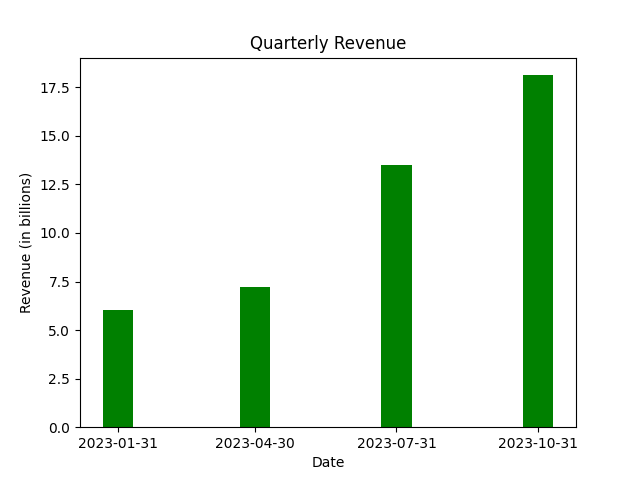
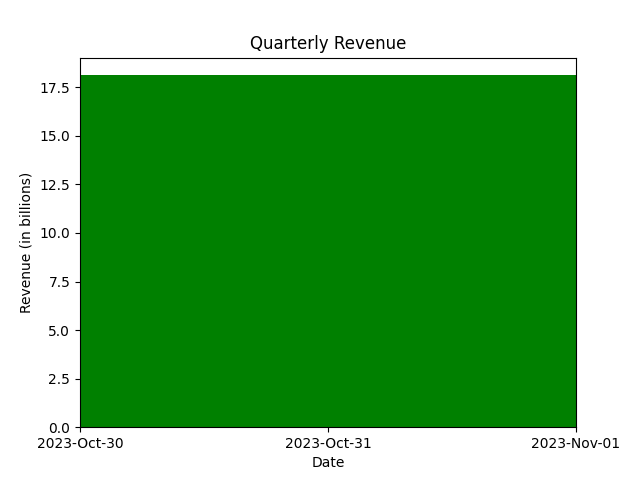
refactoring

diff --git a/google_scraper.py b/google_scraper.py
@@ -1,7 +1,6 @@
 from gnews import GNews
 import nltk
 from nltk.sentiment.vader import SentimentIntensityAnalyzer
-import sys
 import os
 import json
 import gspread
@@ -12,21 +11,24 @@ import yfinance as yf
 from datetime import datetime, timedelta
 from yahoofinancials import YahooFinancials
 from yahoo_fin import stock_info as si
+import matplotlib.dates as mdates
 
 google_news = GNews()
-DAYS = 30
+DATE_FORMAT = '%Y-%b-%d'
 
 def google_scraper():
+    start_date = datetime.strptime('2023-Oct-15', DATE_FORMAT)
+    end_date = datetime.strptime('2023-Nov-15', DATE_FORMAT)
     worksheet = get_sheet().get_worksheet(0)
     nltk.download("vader_lexicon")
-    #articles = news_search()
+    #articles = news_search(start_date, end_date)
     #sentiment_analysis_of_articles = get_sentiment_analysis_of_articles(articles)
     #save_sentiment_analysis(worksheet, sentiment_analysis_of_articles)
     sentiment_analysis_of_articles = read_sentiment_analysis(worksheet)
     sentiment_analiisys_per_day = sentiment_analysis_of_articles.groupby('published date')['compound'].mean().reset_index().sort_values('published date')
-    print(sentiment_analiisys_per_day)
-    print_stock(sentiment_analiisys_per_day)
-    print_revenue(datetime.now().date() - timedelta(days=365), datetime.now().date())  
+    #print(sentiment_analiisys_per_day)
+    print_stock_prices(sentiment_analiisys_per_day, start_date, end_date)
+    print_revenue(start_date, end_date)  
 
 def read_sentiment_analysis(worksheet):
     sentiment_analysis = worksheet.get_all_values()
@@ -43,56 +45,72 @@ def print_revenue(start_date, end_date):
     ticker = 'NVDA'
     yahoo_financials = YahooFinancials(ticker)
 
+    analysts_info = si.get_analysts_info(ticker)
+    
+    pd.set_option('display.max_columns', None)
+    pd.set_option('display.expand_frame_repr', False)
+
+    Revenue_Estimate = analysts_info['Revenue Estimate']
+    print('-----Revenue Estimate-----')
+    print(Revenue_Estimate)
+
+    Earnings_History = analysts_info['Earnings History']
+    print('-----Earnings History-----') 
+    print(Earnings_History)
+
+
     income_statement = yahoo_financials.get_financial_stmts('quarterly', 'income')
     reports = income_statement['incomeStatementHistoryQuarterly'][ticker]
-        
-    analysts_info = si.get_analysts_info(ticker)
-    earnings_estimate = analysts_info['Revenue Estimate']
-    print(earnings_estimate)
 
-
-    dates = []
-    revenues = []
+    data = []
     for report in reports:
         for date_str in report:
-            date = datetime.strptime(date_str, '%Y-%m-%d').date()
-            if start_date <= date <= end_date:
-                if 'operatingRevenue' in report[date_str]:  
-                    dates.append(date)
-                    # преобразуем выручку в миллиарды
-                    revenue_billion = report[date_str]['operatingRevenue'] / 1_000_000_000
-                    revenues.append(revenue_billion)
-    print(dates)
-    print([f'{revenue:.2f}B' for revenue in revenues])
-    #очистить значения на графике
+            date = datetime.strptime(date_str, '%Y-%m-%d')
+            if start_date.year == date.year and (start_date.month - 1) // 3 == (date.month - 1) // 3 and 'operatingRevenue' in report[date_str]:
+                revenue_billion = report[date_str]['operatingRevenue'] / 1_000_000_000
+                data.append((date, revenue_billion))
+
+    # Создаем DataFrame из списка кортежей
+    df = pd.DataFrame(data, columns=['Date', 'Revenue'])
+
+    print('-----Revenue-----')
+    print(df)
+
+    # очистить значения на графике
     plt.cla()
-    plt.bar(dates, revenues, color='green', width=20)
-    plt.xticks(dates)  
+    if not df.empty:
+        plt.bar(df['Date'], df['Revenue'], color='green', width=20)
+        # чтобы на графике были даты только за те данные которые есть
+        plt.xticks([df['Date'].min()])
+        plt.xlim(df['Date'].min() - pd.Timedelta(days=1), df['Date'].min() + pd.Timedelta(days=1))
+        # Установка форматтера для оси X
+        plt.gca().xaxis.set_major_formatter(mdates.DateFormatter(DATE_FORMAT))
+        plt.gca().xaxis.set_major_locator(mdates.DayLocator())
     plt.xlabel('Date')
     plt.ylabel('Revenue (in billions)')
     plt.title('Quarterly Revenue')
     plt.savefig('revenue.png')
-        
-def print_stock(sentiment_data):
-    # Задаем начальную и конечную дату
-    end = datetime.now().date()
-    start = end - timedelta(DAYS)
     
+def print_stock_prices(sentiment_data, start_date, end_date):
     # Получаем данные о ценах акций nvidia
-    nvda = yf.download("NVDA", start, end, interval="1d")
+    nvda = yf.download("NVDA", start_date, end_date, interval="1d")
 
-    print(nvda)
     # Нарисовываем график цен акций nvidia
     plt.plot(nvda.index, nvda["Close"], label="NVDA")
 
     # Добавляем результаты анализа тональности на график
     for index, row in sentiment_data.iterrows():
-        date = pd.to_datetime(row['published date']).date()
-        if start <= date <= end:
-            if date.strftime('%Y-%m-%d') in nvda.index:
+        date = pd.to_datetime(row['published date'])
+        if start_date <= date <= end_date:
+            if date.strftime(DATE_FORMAT) in nvda.index:
                 compound = float(row['compound'])
                 color = 'g' if compound > 0.05 else 'r' if compound < -0.05 else 'b'
-                plt.scatter(date, nvda.loc[date.strftime('%Y-%m-%d')]["Close"], c=color)
+                plt.scatter(date, nvda.loc[date.strftime(DATE_FORMAT)]["Close"], c=color)
+    # Устанавливаем интервал между метками на оси X
+    plt.gca().xaxis.set_major_locator(mdates.DayLocator(interval=10))
+    plt.gca().xaxis.set_major_formatter(mdates.DateFormatter(DATE_FORMAT))
+
+    #plt.xticks(nvda.index)
     plt.title("Цены акций nvidia за 2021 год")
     plt.xlabel("Дата")
     plt.ylabel("Цена")
@@ -110,18 +128,16 @@ def get_sheet():
     sheet = client.open_by_url('https://docs.google.com/spreadsheets/d/1bravbHvEqZDg-5HgVOdH3367Ghs4XOfYNDuEF12LVbg/edit#gid=0')
     return sheet
 
-def save_sentiment_analysis(worksheet, result_of_analysis):
+def save_sentiment_analysis(worksheet, sentiment_analysis):
+    sentiment_analysis['published date'] = sentiment_analysis['published date'].dt.strftime(DATE_FORMAT)
     # Создаем список, который содержит заголовки столбцов и данные
-    data_with_headers = [result_of_analysis.columns.values.tolist()] + result_of_analysis.values.tolist()
+    data_with_headers = [sentiment_analysis.columns.values.tolist()] + sentiment_analysis.values.tolist()
     
     # Сохраняем данные в Google Sheets
     worksheet.update(data_with_headers)
 
-def news_search():
-    # Получаем список дат за последние DAYS дней для того чтобы сделать поиск новостей за эти дни в цикле, потому что API Google News позволяет получить только 100 статей за один запрос
-    end = datetime.now().date() - timedelta(days=1)
-    start = end - timedelta(DAYS)
-    dates = [start + timedelta(days=i) for i in range((end-start).days + 1)]
+def news_search(start_date, end_date):
+    dates = [start_date + timedelta(days=i) for i in range((end_date-start_date).days + 1)]
     dates = [(date.year, date.month, date.day) for date in dates]  
 
     keywords = ['nvidia stock articles']
@@ -162,7 +178,7 @@ def get_sentiment_analysis_of_articles(articles):
             # Преобразование строки даты и времени в объект datetime
             date_time_obj = datetime.strptime(article['published date'], '%a, %d %b %Y %H:%M:%S %Z')
             # Удаление информации о времени, сохранение только даты
-            date_time_obj = date_time_obj.date()
+            date_time_obj = date_time_obj.replace(hour=0, minute=0, second=0, microsecond=0)
             data.append([date_time_obj, str(article['publisher']), str(article['title']), float(scores["compound"])])
         else:   
             continue
